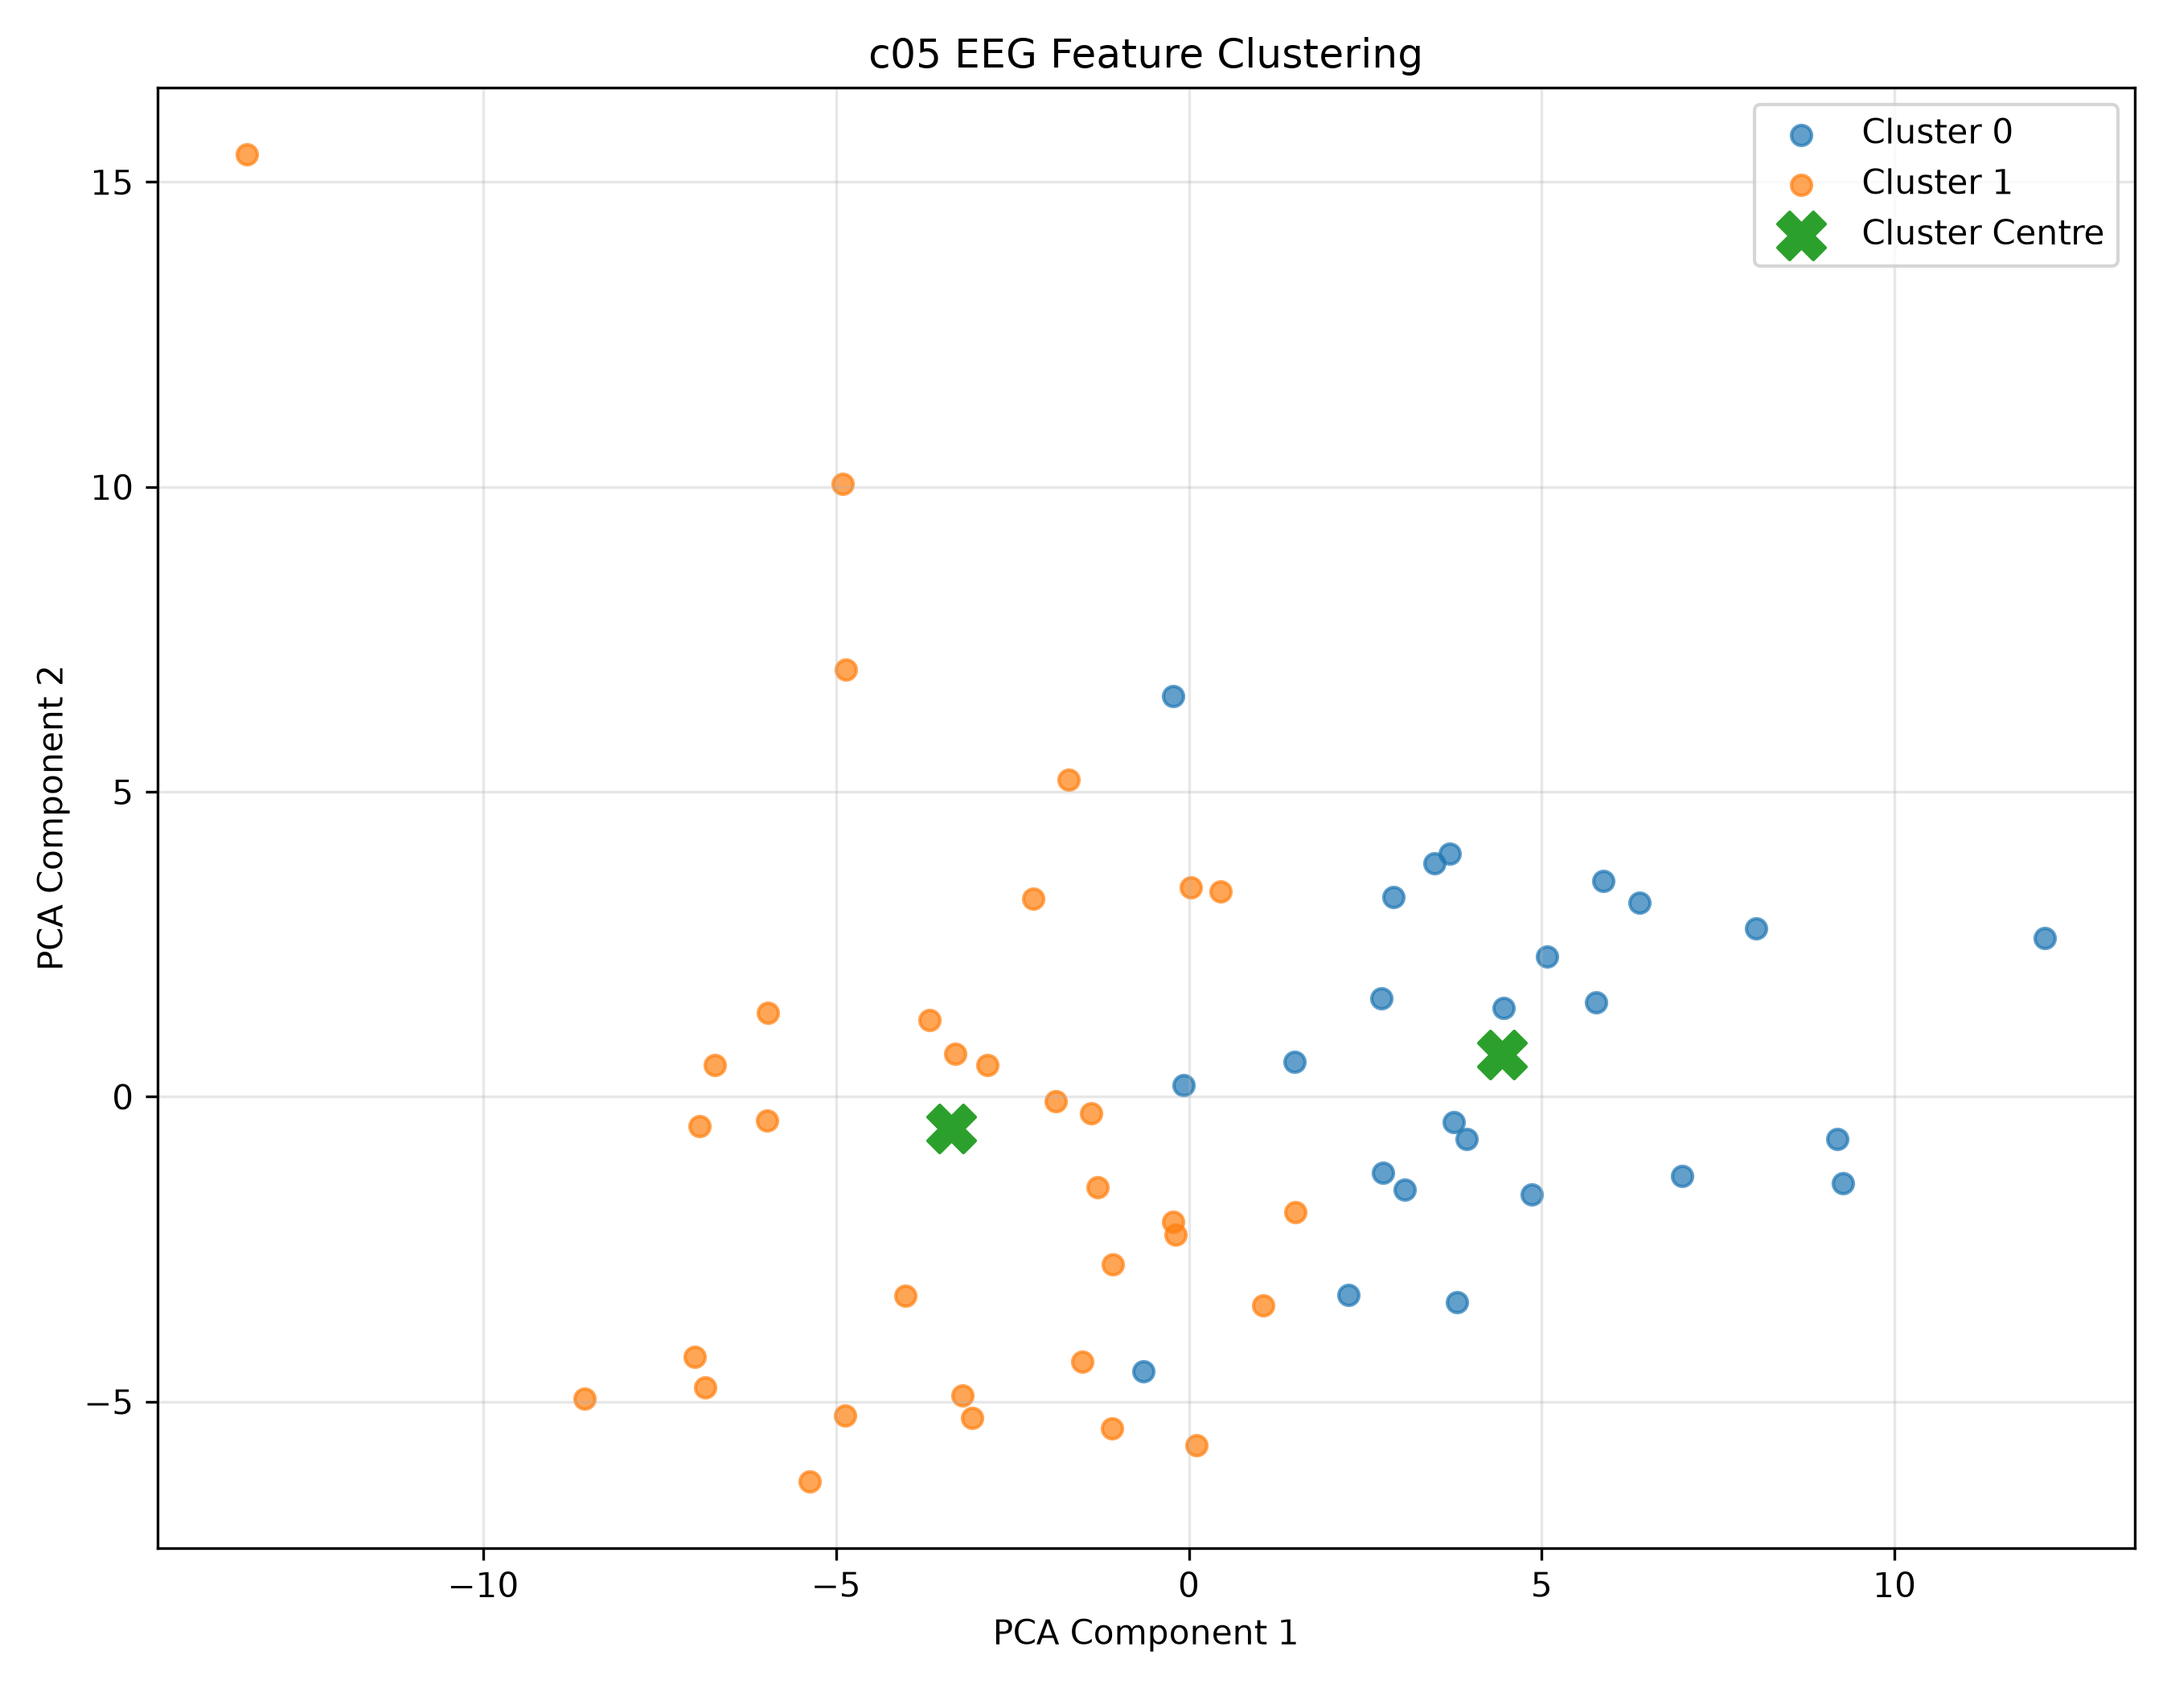
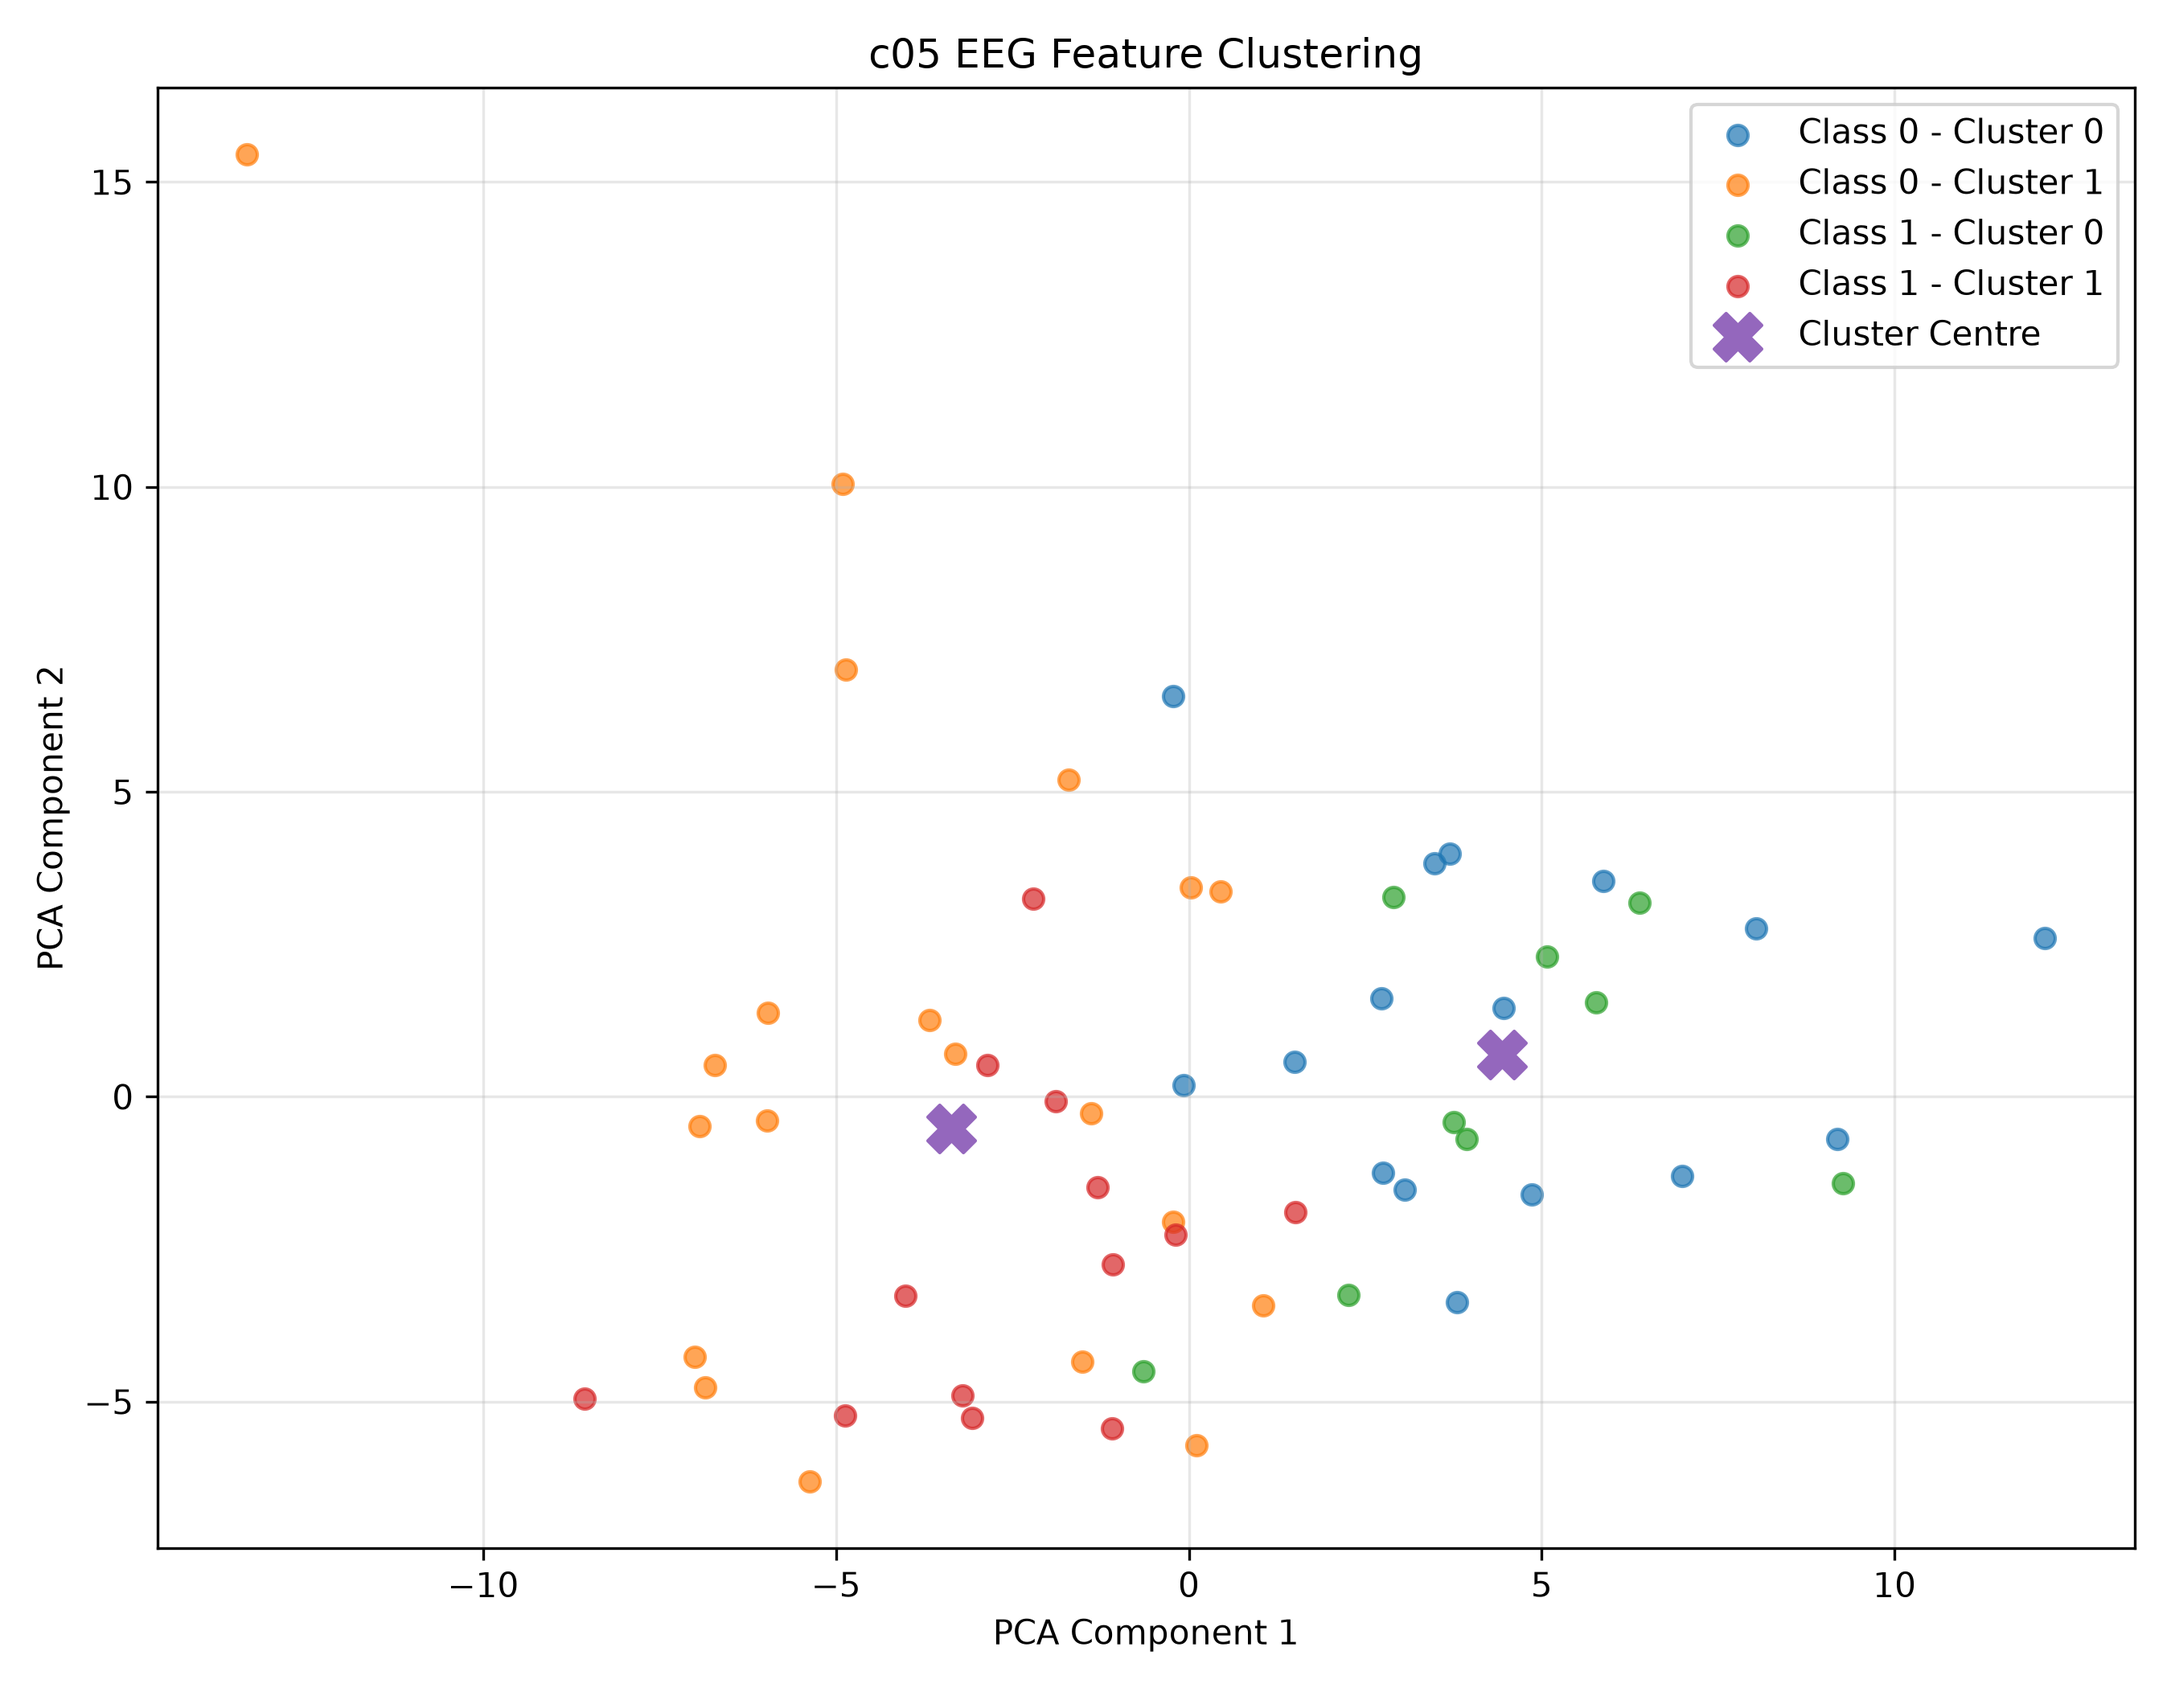
added classes to csv also

diff --git a/clustering.py b/clustering.py
@@ -268,7 +268,7 @@ def run_clustering(X, y, participant):
     cluster_data = pd.DataFrame()
 
     cluster_data["Epoch"] = np.arange(len(y))
-    cluster_data["True_Label"] = y
+    cluster_data["Class"] = "Class " + y.astype(str)
     cluster_data["Cluster"] = cluster_labels
     cluster_data["PCA_1"] = X_pca[:, 0]
     cluster_data["PCA_2"] = X_pca[:, 1]
